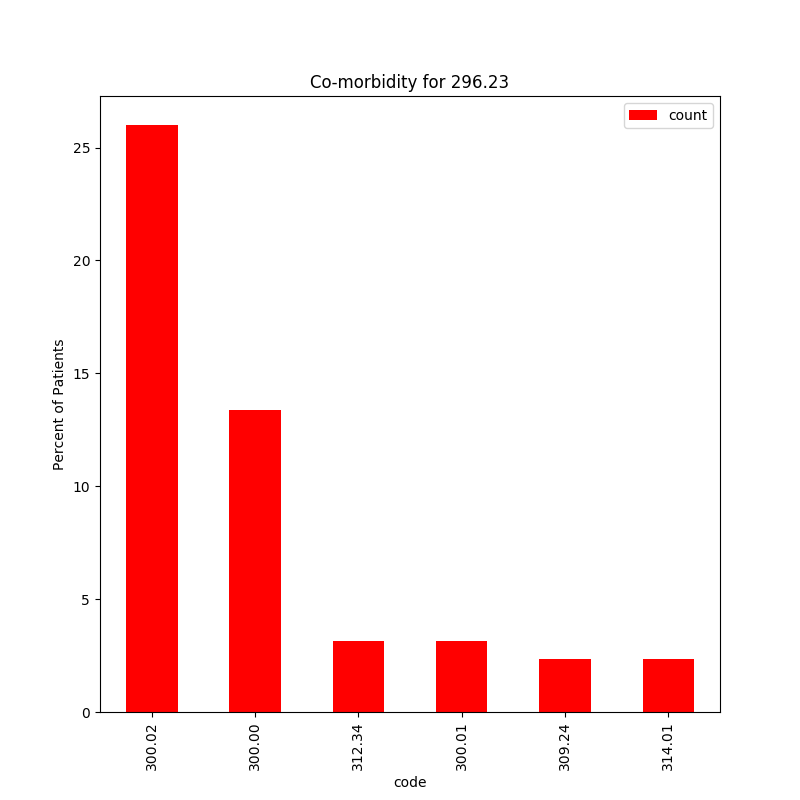
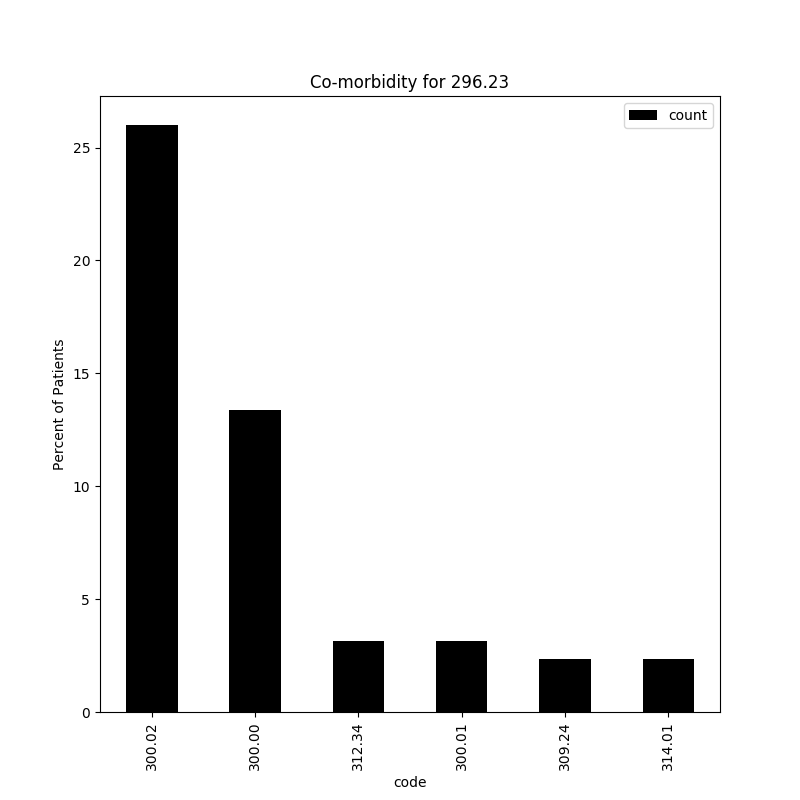
images

diff --git a/diagnosis.py b/diagnosis.py
@@ -20,11 +20,14 @@ def dropping_duplicates(dataframes):
 def given_diagnosis(df, diag1_code, df_desc):
     plt.close('all')
     df = df.loc[df['Diag 1'] == diag1_code]
+    # df = df[df['Doctor_Num'] == doc_num]
     count_list= []
     df_2 = df['Diag 2'].astype(str)
     df_3 = df['Diag 3'].astype(str)
     df_4 = df['Diag 4'].astype(str)
-    unique = df_2.unique()[1:-1]
+    unique = df_2.unique()
+    index = np.argwhere(unique =='nan')
+    unique = np.delete(unique, index)
     for X in unique:
         count = 0
         for x in df_2:
@@ -57,10 +60,10 @@ def given_diagnosis(df, diag1_code, df_desc):
 
     plt.close('all')
     #creating bar graph
-    fig = together.plot(x = 'code', y = 'count', kind = 'bar', color = 'r', figsize = (8,8))
+    fig = together.plot(x = 'code', y = 'count', kind = 'bar', color = 'b', figsize = (8,8))
     plt.ylabel('Percent of Patients')
     plt.title('Co-morbidity for {}'.format(diag1_code))
-    plt.savefig('Co-morbid_{}.png'.format(diag1_code))
+    plt.savefig('graphs_tables/Co-morbid_{0}_male_21_40.png'.format(diag1_code))
 
     plt.close('all')
     #
@@ -75,21 +78,72 @@ def given_diagnosis(df, diag1_code, df_desc):
     # table.scale(2.5,2)
     # plt.subplots_adjust(right=0.35)
 
-    ax = plt.subplot(111, frame_on=False) # no visible frame
-    ax.xaxis.set_visible(False)  # hide the x axis
-    ax.yaxis.set_visible(False)  # hide the y axis
+    # ax = plt.subplot(111, frame_on=False) # no visible frame
+    # ax.xaxis.set_visible(False)  # hide the x axis
+    # ax.yaxis.set_visible(False)  # hide the y axis
+    #
+    # ax.table(cellText=df_desc.values, cellLoc = 'center', rowLoc = 'center',
+    #       loc='center')
+    #      # where df is your data frame
+    # # plt.title('Co-morbidity for {}'.format(title_desc))
+    # plt.figtext(.5,.9,'Co-morbidity for {}'.format(title_desc), fontsize=5, ha='center')
+    #
+    # plt.savefig('graphs_tables/Co-morbid_{}_table.png'.format(diag1_code),dpi=900)
+    # return count_list
 
-    ax.table(cellText=df_desc.values, cellLoc = 'center', rowLoc = 'center',
-          loc='center')
-         # where df is your data frame
-    # plt.title('Co-morbidity for {}'.format(title_desc))
-    plt.figtext(.5,.9,'Co-morbidity for {}'.format(title_desc), fontsize=5, ha='center')
+def given_diagnosis_by_doctor(df, diag1_code, df_desc):
+    plt.close('all')
+    df = df.loc[df['Diag 1'] == diag1_code]
+    doc_list = [1,2,3,4,5,6,7,8,9,10,11]
 
-    plt.savefig('Co-morbid_{}_table.png'.format(diag1_code),dpi=900)
-    print(len(df))
-    print (unique)
-    print(count_list)
-    print(together)
+    for x in doc_list:
+        df = df[df['Doctor_Num'] == x]
+        if df.dropna().empty == True:
+            continue
+        else:
+            count_list= []
+            df_2 = df['Diag 2'].astype(str)
+            df_3 = df['Diag 3'].astype(str)
+            df_4 = df['Diag 4'].astype(str)
+            unique = df_2.unique()
+            index = np.argwhere(unique =='nan')
+            unique = np.delete(unique, index)
+            for X in unique:
+                count = 0
+                for x in df_2:
+                    if X == x:
+                        count +=1
+                for x in df_3:
+                    if X == x:
+                        count +=1
+                for x in df_4:
+                    if X == x:
+                        count +=1
+                count_list.append(count/len(df)*100)
+
+            together = pd.DataFrame(
+            {'code': unique,
+             'count': count_list
+            })
+            together = together.sort_values(['count'], ascending=[False])
+            #I want to exclude any counts where it was only 1 person
+            together = together[together['count'] != 1/len(df)*100]
+
+
+            #Grab DataFrame rows where column has certain values
+            title_desc1= df_desc[df_desc['Diag 1'] == diag1_code]
+            title_desc = str(list(title_desc1['Diag Desc 1']))
+            title_desc = title_desc.strip("['")
+            title_desc = title_desc.strip("']")
+
+            df_desc = df_desc[df_desc['Diag 1'].isin(together['code'])]
+
+            plt.close('all')
+            #creating bar graph
+            fig = together.plot(x = 'code', y = 'count', kind = 'bar', color = 'r', figsize = (8,8))
+            plt.ylabel('Percent of Patients')
+            plt.title('Co-morbidity for {}'.format(diag1_code))
+            plt.savefig('graphs_tables/Co-morbid_{0}_doctor_{1}.png'.format(diag1_code, x))
 
 def table_of_codes(df):
     df_desc = df[['Diag 1','Diag Desc 1']]
@@ -115,6 +169,11 @@ if __name__== '__main__':
 
     df_combo = pd.concat(frames)
     df_combo = df_combo.drop_duplicates(subset='patient_id', keep='last')
+    dropping_col = ['Loc Name', 'City', 'Zip', 'Pat Age', 'Referring']
+    #drop columns not used/needed
+    df_combo = df_combo.drop((x for x in dropping_col), axis = 1)
+    #drop rows that have no diagnosis information
+    df_combo = df_combo[df_combo['Diag 1'].notnull()]
 
     # gives amount of patients having each diagnosis
     # print(df_combo['Diag 1'].unique())
@@ -127,7 +186,54 @@ if __name__== '__main__':
     #make a graph and table for each diagnosis
     lst_codes = df_combo['Diag 1'].astype(str)
     #there is a nan in position 1
-    lst_codes = lst_codes.unique()[2:]
+    lst_codes = list(lst_codes.unique())
+    #removed symptoms from list of diagnosis
+    removing1 = ('300.20','305.60', '300.29', '304.81','309.29' , '305.23' , '309.89' , '305.20' , '305.01', '308.3', '303.03', '303.90', '298.9', '300.00', '305.50', '304.22', '305.22', '303.91', '303.40', '312.9', '298.8', '304.01', '304.00')
+    removing = ('293.1', '305.00', '304.80', 'V62.82', '304.02', '293.0', 'V70.1', '303.93', '305.02', '304.03', '303.92')
+    lst_code_diag1 = [e for e in lst_codes if e not in removing1]
+    lst_code_diag = [e for e in lst_code_diag1 if e not in removing]
 
-    for x in lst_codes:
-        given_diagnosis(df_combo,x, df_desc)
+    #Age groups
+    df_age_0_20 = df_combo[df_combo["Pat Age in Years"] < 20]
+    df_age_21_40 = df_combo[df_combo['Pat Age in Years'].between(21, 40, inclusive=True)]
+    df_age_41_60 = df_combo[df_combo['Pat Age in Years'].between(41, 60, inclusive=True)]
+    df_age_61_80 = df_combo[df_combo['Pat Age in Years'].between(61, 80, inclusive=True)]
+    df_age_81_110 = df_combo[df_combo['Pat Age in Years'].between(81, 110, inclusive=True)]
+
+    #gender groups
+    df_female = df_combo[df_combo["Gender Desc"] == 'Female']
+    df_male = df_combo[df_combo["Gender Desc"] == 'Male']
+
+    #Age/Gender combo
+    df_female_0_20 = df_age_0_20[df_age_0_20["Gender Desc"] == 'Female']
+    df_female_21_40 = df_age_21_40[df_age_21_40["Gender Desc"] == 'Female']
+    df_female_41_60 = df_age_41_60[df_age_41_60["Gender Desc"] == 'Female']
+    df_female_61_80 = df_age_61_80[df_age_61_80["Gender Desc"] == 'Female']
+    df_female_81_110 = df_age_81_110[df_age_81_110["Gender Desc"] == 'Female']
+
+    df_male_0_20 = df_age_0_20[df_age_0_20["Gender Desc"] == 'Male']
+    df_male_21_40 = df_age_21_40[df_age_21_40["Gender Desc"] == 'Male']
+    df_male_41_60 = df_age_41_60[df_age_41_60["Gender Desc"] == 'Male']
+    df_male_61_80 = df_age_61_80[df_age_61_80["Gender Desc"] == 'Male']
+    df_male_81_110 = df_age_81_110[df_age_81_110["Gender Desc"] == 'Male']
+
+    # count_list = []
+    # max_count= []
+    # for x in lst_code_diag[3:5]:
+    #     given_diagnosis(df_age_0_20,x, df_desc)
+        # max_count.append(max(count_list))
+    # lst_df = [df_female_0_20,
+    # df_female_21_40, df_female_41_60, df_female_61_80, df_male_0_20, df_male_21_40, df_male_41_60, df_male_61_80]
+    # for x in lst_df:
+
+    # given_diagnosis(df_female_41_60,'296.23', df_desc)
+    given_diagnosis(df_male_21_40, '295.70', df_desc)
+
+#index of list cod not working 1, 16, 17, 21
+#goal of project
+#data
+    #cleaning
+    #feature engineering
+#EDA
+#Methodology
+#visualization

diff --git a/README.md b/README.md
@@ -1,14 +1,27 @@
 # Co-Morbidity
 capstone project
 
-Goal:
-To help people see that given they have a certain health problem what is the likelihood of having other health problems that are co-morbid. Using this they can double check with their doctor if they have checked for those other diseases.
+##Goal:
+To help people see that given they have a certain health problem what is the likelihood of having other health problems that are co-morbid in the psychiatry field. Using this they can double check with their doctor if they have checked for those other disorders. The reason I wanted to do psychiatry is because these diagnosis are especially related to a doctors discretion.  
 
 Another application is determining if doctors are within the range of national percent of people having these co-morbid diseases. To make sure the doctors are being thorough with their process.
 
-Research:
+##Data:
+    The information I am using has 19,830 individuals in 6 months of data with 11 different doctors that go to several hospitals. There are 154 different symptoms and disorders that I have to compare.
+
+    I chose to separate by gender and age by groups of 20. I chose groups of 20 years so make sure it still has a good number of patients for each group. And in the bar graphs I discard any co-morbid diagnosis that have 1 or less patients with it.
+
+##Visualization:
+    I would like to make a web app to be able to find the information based on personal information entered. And currently using bar graphs to visualize but would like to use different visualization tools. 
+
+
+##Research:
 Paper on Co-Morbidity of mental disorders and medical ones
 http://www.integration.samhsa.gov/workforce/mental_disorders_and_medical_comorbidity.pdf
 
 website with links to helpful psychology information
 http://www.apa.org/helpcenter/data-behavioral-health.aspx
+
+https://en.wikipedia.org/wiki/DSM-5
+
+http://jamanetwork.com/journals/jamapsychiatry/fullarticle/208029
